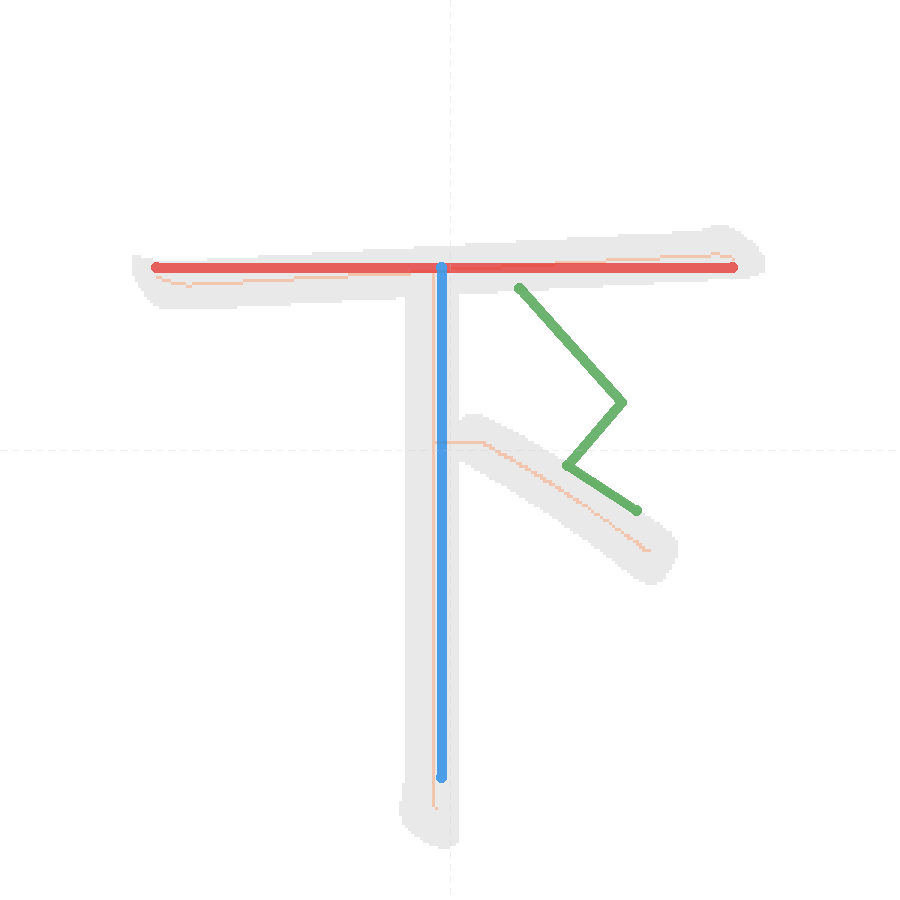
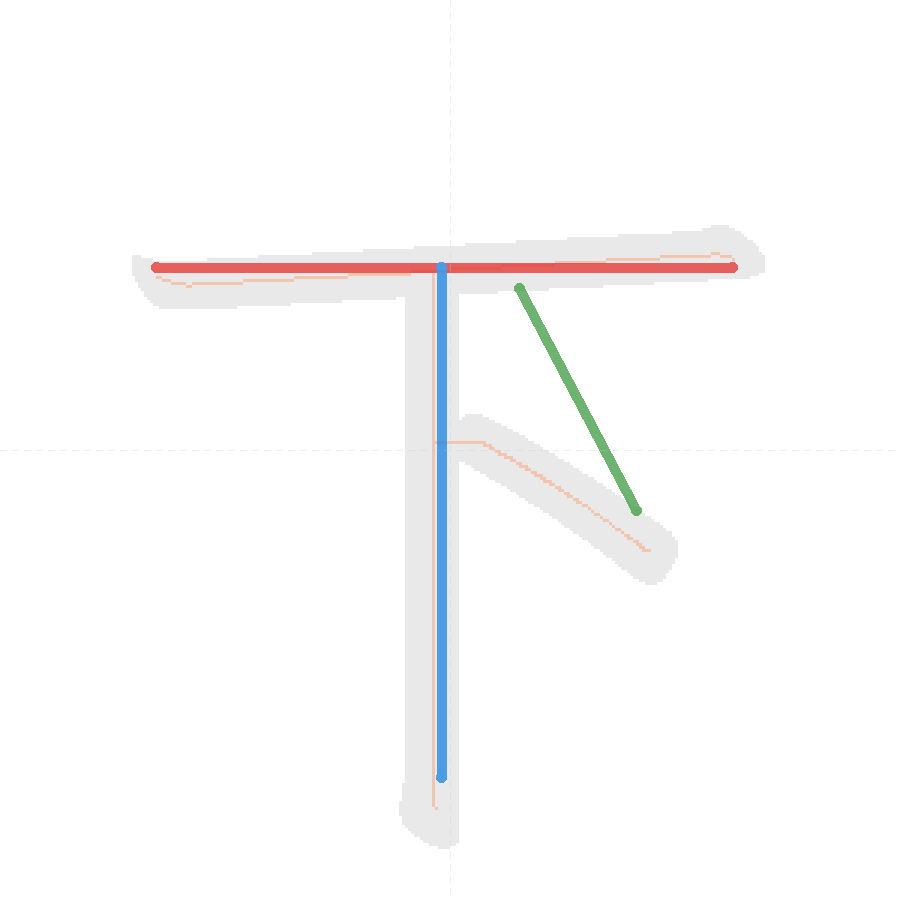
ジグザグ除去閾値緩和（25→35px）+ 全80字再生成
- step 6dジグザグ除去の短セグメント閾値を25→35pxに緩和
  （下の3画目のジグザグ等、KVGクリッピング由来の折り返しを解消）
- remove_zigzags関数の最小セグメント長も20→30pxに緩和
- 全80字再生成・再可視化

Changed region(s): [[0.5911, 0.3422, 0.7156, 0.56], [0.56, 0.3111, 0.5911, 0.3422]]

diff --git a/auto_strokes.py b/auto_strokes.py
@@ -1386,7 +1386,7 @@ def remove_zigzags(points, angle_threshold=0.3):
             # 鋭い折り返し（cos < -threshold）→ 中間点を削除
             if cos_angle < -angle_threshold:
                 # さらに、折り返し先が近い場合のみ除去（遠い場合は意味のある曲がり）
-                if min(ab_len, bc_len) < 20:
+                if min(ab_len, bc_len) < 30:
                     i += 1
                     continue
         result.append(points[i])
@@ -2003,7 +2003,7 @@ def generate_strokes(kanji: str, debug=False) -> dict:
                     else:
                         diff_cd = diff_ab  # 末尾近くは前方向差で代用
                     # 両隣から45°以上逸脱 かつ 短いセグメント → ジグザグ
-                    if diff_ab > 45 and diff_cd > 45 and seg_bc_len < 25:
+                    if diff_ab > 45 and diff_cd > 45 and seg_bc_len < 35:
                         changed = True
                         skip_next = False  # Bを除去、Cは残す
                         continue
